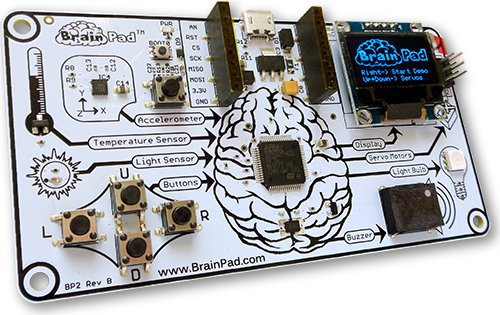
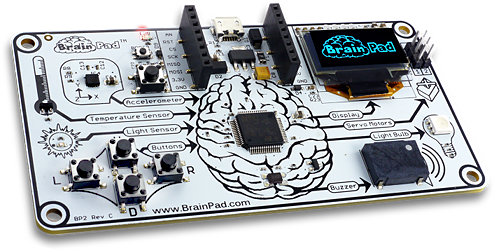
Changed main BrainPad picture, added some things Gus wanted, made other small changes.

diff --git a/go-beyond/components/display.md b/go-beyond/components/display.md
@@ -4,74 +4,74 @@ The BrainPad display is an output device. The BrainPad has commands allowing you
 
 Display commands in this section only change the memory buffer of the display and are not seen until you also call the BrainPad.Display.ShowOnScreen() method.  
  
-* BrainPad.Display.Height() - returns the BrainPad display's height in pixels (64). 
+* `BrainPad.Display.Height()` - returns the BrainPad display's height in pixels (64). 
 
-* BrainPad.Display.Width() - returns the BrainPad display's width in pixels (128).
+* `BrainPad.Display.Width()` - returns the BrainPad display's width in pixels (128).
  
-* BrainPad.Display.DrawSmallNumber(int x, int y, long number) - Displays a number of type long in small text at the given x and y coordinates. [Example: BrainPad.Display.DrawSmallNumber(10, 20, 52)]
+* `BrainPad.Display.DrawSmallNumber(int x, int y, long number)` - Displays a number of type long in small text at the given x and y coordinates. [Example: `BrainPad.Display.DrawSmallNumber(10, 20, 52)`]
 
-* BrainPad.Display.DrawSmallNumber(int x, int y, double number) - Displays a number of type double in small text at the given x and y coordinates.
+* `BrainPad.Display.DrawSmallNumber(int x, int y, double number)` - Displays a number of type double in small text at the given x and y coordinates.
 
-* BrainPad.Display.DrawNumber(int x, int y, long number) - Displays a number of type long in large text at the given x and y coordinates.
+* `BrainPad.Display.DrawNumber(int x, int y, long number)` - Displays a number of type long in large text at the given x and y coordinates.
 
-* BrainPad.Display.DrawNumber(int x, int y, double number) - Displays a number of type double in large text at the given x and y coordinates. 
+* `BrainPad.Display.DrawNumber(int x, int y, double number)` - Displays a number of type double in large text at the given x and y coordinates. 
 
-* BrainPad.Display.DrawSmallText(int x, int y, string text) - Displays a string in small text at the given x and y coordinates. [Example: BrainPad.Display.DrawSmallText(20, 20, "Hello")]  
+* `BrainPad.Display.DrawSmallText(int x, int y, string text)` - Displays a string in small text at the given x and y coordinates. [Example: `BrainPad.Display.DrawSmallText(20, 20, "Hello")`]  
 
-* BrainPad.Display.DrawText(int x, int y, string text) - Displays a string in small text at the given x and y coordinates.
+* `BrainPad.Display.DrawText(int x, int y, string text)` - Displays a string in small text at the given x and y coordinates.
 
-* BrainPad.Display.DrawScaledText(int x, int y, string text, int HScale, int VScale) - Displays text that can be made larger. Text size is multiplied by HScale to determing horizontal size and VScale to determine vertical size. For example setting HScale to two will print text that is twice as wide.
+* `BrainPad.Display.DrawScaledText(int x, int y, string text, int HScale, int VScale)` - Displays text that can be made larger. Text size is multiplied by HScale to determing horizontal size and VScale to determine vertical size. For example setting HScale to two will print text that is twice as wide.
  
-* BrainPad.Display.CreatePicture(int width, int height, byte[] data) - Used to store a picture for the DrawPicture commands.
+* `BrainPad.Display.CreatePicture(int width, int height, byte[] data)` - Used to store a picture for the DrawPicture commands.
 
-* BrainPad.Display.CreateScaledPicture(int width, int height, byte[] data, int scale) - Used to store a picture that will be displayed larger by a factor of scale. For example setting scale to two will display the picture at twice its original size.
+* `BrainPad.Display.CreateScaledPicture(int width, int height, byte[] data, int scale)` - Used to store a picture that will be displayed larger by a factor of scale. For example setting scale to two will display the picture at twice its original size.
  
-* BrainPad.Display.DrawCircle(int x, int y, int r) - Draws a circle of radius r with the center located at the given x and y coordinates.  
+* `BrainPad.Display.DrawCircle(int x, int y, int r)` - Draws a circle of radius r with the center located at the given x and y coordinates.  
 
-* BrainPad.Display.DrawRectangle(int x, int y, int width, int height) - Draws a box at the given x and y coordinates.
+* `BrainPad.Display.DrawRectangle(int x, int y, int width, int height)` - Draws a box at the given x and y coordinates.
 
-* BrainPad.Display.DrawFilledRectangle(int x, int y, int width, int height) - Draws a filled box at the given x and y coordinates.   
+* `BrainPad.Display.DrawFilledRectangle(int x, int y, int width, int height)` - Draws a filled box at the given x and y coordinates.   
 
-* BrainPad.Display.DrawLine(int x0, int y0, int x1, int y1) - Draws a line from (x0, y0) to (x1, y1).  
+* `BrainPad.Display.DrawLine(int x0, int y0, int x1, int y1)` - Draws a line from (x0, y0) to (x1, y1).  
 
-* BrainPad.Display.DrawPoint(int x, int y) - Turns on a single pixel at the given x and y coordinates.
+* `BrainPad.Display.DrawPoint(int x, int y)` - Turns on a single pixel at the given x and y coordinates.
  
-* BrainPad.Display.DrawPicture(int x, int y, Picture picture) - Draws the given picture at the given x and y coordinates.
+* `BrainPad.Display.DrawPicture(int x, int y, Picture picture)` - Draws the given picture at the given x and y coordinates.
 
-* BrainPad.Display.DrawPictureFlippedHorizontally(int x, int y, Picture picture) - Flips the given picture horizontally and draws it at the given x and y coordinates.
+* `BrainPad.Display.DrawPictureFlippedHorizontally(int x, int y, Picture picture)` - Flips the given picture horizontally and draws it at the given x and y coordinates.
 
-* BrainPad.Display.DrawPictureFlippedVertically(int x, int y, Picture picture) - Flips the given picture vertically and draws it at the given x and y coordinates. 
+* `BrainPad.Display.DrawPictureFlippedVertically(int x, int y, Picture picture)` - Flips the given picture vertically and draws it at the given x and y coordinates. 
 
-* BrainPad.Display.DrawPictureRotated180Degrees(int x, int y, Picture picture) - Rotates the given picture 180 degrees and draws it at the given x and y coordinates. 
+* `BrainPad.Display.DrawPictureRotated180Degrees(int x, int y, Picture picture)` - Rotates the given picture 180 degrees and draws it at the given x and y coordinates. 
 
-* BrainPad.Display.DrawPictureRotated270Degrees(int x, int y, Picture picture) - Rotates the given picture 270 degrees clockwise and draws it at the given x and y coordinates.
+* `BrainPad.Display.DrawPictureRotated270Degrees(int x, int y, Picture picture)` - Rotates the given picture 270 degrees clockwise and draws it at the given x and y coordinates.
 
-* BrainPad.Display.DrawPictureRotated90Degrees(int x, int y, Picture picture) - Rotates the given picture 90 degrees clockwise and draws it at the given x and y coordinates.
+* `BrainPad.Display.DrawPictureRotated90Degrees(int x, int y, Picture picture)` - Rotates the given picture 90 degrees clockwise and draws it at the given x and y coordinates.
                          
-* BrainPad.Display.ClearPartOfScreen(int x, int y, int width, int height) - Clears a rectangular section of the display where x and y are the top left corner of the rectangle of given width and height.
+* `BrainPad.Display.ClearPartOfScreen(int x, int y, int width, int height)` - Clears a rectangular section of the display where x and y are the top left corner of a rectangle of given width and height.
  
-* BrainPad.Display.ClearPoint(int x, int y) - Clears the pixel located at the given x and y coordinates.  
+* `BrainPad.Display.ClearPoint(int x, int y)` - Clears the pixel located at the given x and y coordinates.  
 
-* BrainPad.Display.ClearScreen() - Clears the entire screen buffer. 
+* `BrainPad.Display.ClearScreen()` - Clears the entire screen buffer. 
 
-* BrainPad.Display.InvertColors(bool invert) - Inverts the colors of the entire screen.
+* `BrainPad.Display.InvertColors(bool invert)` - Inverts each pixel on the entire screen. Pixels that are on will be turned off, and pixels that are off will be turned on.
 
-* BrainPad.Display.ShowOnScreen() - Writes the entire display buffer to the display. Used to show what has been drawn to the screen buffer on the display.
+* `BrainPad.Display.ShowOnScreen()` - Writes the entire display buffer to the display. Used to show what has been drawn to the screen buffer on the display.
  
-The above commands only affect the BrainPad's display memory (or buffer) and will not be shown on the display until BrainPad.Display.ShowOnScreen() is executed.
+The above commands only affect the BrainPad's display memory (or buffer) and will not be shown on the display until `BrainPad.Display.ShowOnScreen()` is executed.
 
-The methods below have the ShowOnScreen() method built in and don't require the use of BrainPad.Display.ShowOnScreen(). These methods also clear the entire screen before displaying new text. The following commands run three methods consecutively: BrainPad.Display.ClearScreen(), BrainPad.Display.Draw..., and finally BrainPad.Display.ShowOnScreen().  
+The methods below have the `ShowOnScreen()` method built in and don't require the use of `BrainPad.Display.ShowOnScreen()`. These methods also clear the entire screen before displaying new text. The following commands run three methods consecutively: `BrainPad.Display.ClearScreen()`, `BrainPad.Display.Draw...`, and finally `BrainPad.Display.ShowOnScreen()`.  
  
-* BrainPad.Display.DrawNumberAndShowOnScreen(int x, int y, long number) - Clears the screen, draws a number of type long at the given x and y coordinates, and displays the number on the BrainPad display.
+* `BrainPad.Display.DrawNumberAndShowOnScreen(int x, int y, long number)` - Clears the screen, draws a number of type long at the given x and y coordinates, and displays the number on the BrainPad display.
 
-* BrainPad.Display.DrawNumberAndShowOnScreen(int x, int y, double number) - Clears the screen, draws a number of type double at the given x and y coordinates, and displays the number on the BrainPad display.
+* `BrainPad.Display.DrawNumberAndShowOnScreen(int x, int y, double number)` - Clears the screen, draws a number of type double at the given x and y coordinates, and displays the number on the BrainPad display.
 
-* BrainPad.Display.DrawSmallNumberAndShowOnScreen(int x, int y, long number) - Clears the screen, draws a number of type long at the given x and y coordinates in small text, and displays the number on the BrainPad display.
+* `BrainPad.Display.DrawSmallNumberAndShowOnScreen(int x, int y, long number)` - Clears the screen, draws a number of type long at the given x and y coordinates in small text, and displays the number on the BrainPad display.
 
-* BrainPad.Display.DrawSmallNumberAndShowOnScreen(int x, int y, double number) - Clears the screen, draws a number of type double at the given x and y coordinates in small text, and displays the number on the BrainPad display.
+* `BrainPad.Display.DrawSmallNumberAndShowOnScreen(int x, int y, double number)` - Clears the screen, draws a number of type double at the given x and y coordinates in small text, and displays the number on the BrainPad display.
 
-* BrainPad.Display.DrawTextAndShowOnScreen(int x, int y, string text) - Clears the screen, draws a string at the given x and y coordinates, and displays the string on the BrainPad display.    
+* `BrainPad.Display.DrawTextAndShowOnScreen(int x, int y, string text)` - Clears the screen, draws a string at the given x and y coordinates, and displays the string on the BrainPad display.    
 
-* BrainPad.Display.DrawSmallTextAndShowOnScreen(int x, int y, string text) - Clears the screen, draws a string at the given x and y coordinates in small text, and displays the string on the BrainPad display.    
+* `BrainPad.Display.DrawSmallTextAndShowOnScreen(int x, int y, string text)` - Clears the screen, draws a string at the given x and y coordinates in small text, and displays the string on the BrainPad display.    
 
-* BrainPad.Display.DrawScaledTextAndShowOnScreen(int x, int y, string text, int HScale, int VScale) - Clears the screen, draws a string at the given x and y coordinates in scaled text, and displays the string on the BrainPad display.    
+* `BrainPad.Display.DrawScaledTextAndShowOnScreen(int x, int y, string text, int HScale, int VScale)` - Clears the screen, draws a string at the given x and y coordinates in scaled text, and displays the string on the BrainPad display.    

diff --git a/go-beyond/components/buttons.md b/go-beyond/components/buttons.md
@@ -4,28 +4,28 @@ The four directional buttons (up, down, left and right) are used as inputs and c
 
 An event handler will continuously check to see if a button has been pressed or released. A button is released when the person pushing the button stops pushing (or releases) the button. Once an event handler is set up, the BrainPad will start an event listener that will check the button for you. This allows your program to do other tasks without you worrying about missing a button event. Once the button is pushed (or released) the event listener will call your event handler. The event handler is code you write to tell the BrainPad how to react when a button is pushed (or released).
 
-While an event handler is a little harder to set up, it has the advantage allowing the program to take care of other tasks while never missing a button event.
+While an event handler is a little harder to set up, it allows the program to take care of other tasks while never missing a button event.
  
-* BrainPad.Buttons.IsUpPressed() - returns a boolean true if the up button is pressed and a boolean false otherwise.
+* `BrainPad.Buttons.IsUpPressed()` - returns a boolean true if the up button is pressed and a boolean false otherwise.
 
-* BrainPad.Buttons.IsLeftPressed() - returns a boolean true if the left button is pressed and a boolean false otherwise.
+* `BrainPad.Buttons.IsLeftPressed()` - returns a boolean true if the left button is pressed and a boolean false otherwise.
 
-* BrainPad.Buttons.IsRightPressed() - returns a boolean true if the right button is pressed and a boolean false otherwise.
+* `BrainPad.Buttons.IsRightPressed()` - returns a boolean true if the right button is pressed and a boolean false otherwise.
 
-* BrainPad.Buttons.IsDownPressed() - returns a boolean true if the down button is pressed and a boolean false otherwise.
+* `BrainPad.Buttons.IsDownPressed()` - returns a boolean true if the down button is pressed and a boolean false otherwise.
 
-* ButtonEventHandler WhenUpButtonPressed
+* `ButtonEventHandler` `WhenUpButtonPressed`
 
-* ButtonEventHandler WhenUpButtonReleased
+* `ButtonEventHandler` `WhenUpButtonReleased`
 
-* ButtonEventHandler WhenLeftButtonPressed
+* `ButtonEventHandler` `WhenLeftButtonPressed`
 
-* ButtonEventHandler WhenLeftButtonReleased
+* `ButtonEventHandler` `WhenLeftButtonReleased`
 
-* ButtonEventHandler WhenRightButtonPressed
+* `ButtonEventHandler` `WhenRightButtonPressed`
 
-* ButtonEventHandler WhenRightButtonReleased
+* `ButtonEventHandler` `WhenRightButtonReleased`
  
-* ButtonEventHandler WhenDownButtonPressed
+* `ButtonEventHandler` `WhenDownButtonPressed`
 
-* ButtonEventHandler WhenDownButtonReleased
+* `ButtonEventHandler` `WhenDownButtonReleased`

diff --git a/go-beyond/components/light-bulb.md b/go-beyond/components/light-bulb.md
@@ -1,15 +1,15 @@
 # Light Bulb
 ---
-The BrainPad Light Bulb actually contains three light emitting diodes (LEDs) in one package. One LED is red, one is green, and one is blue. These can independently set to varying intensities to create up to one million different colors.
+The BrainPad Light Bulb actually contains three light emitting diodes (LEDs) in one package. One LED is red, one is green, and one is blue. These can independently set to varying intensities to create up to a million different colors.
 
-* BrainPad.LightBulb.TurnColor(double r, double g, double b) - Used to create a variety of colors by controlling the brightness of the red, green and blue LEDs. The minimum color intensity is 0 (off) and the maximum is 100. 
+* `BrainPad.LightBulb.TurnColor(double r, double g, double b)` - Used to create a variety of colors by controlling the brightness of the red, green and blue LEDs. The minimum color intensity is 0 (off) and the maximum is 100. 
 
-* BrainPad.LightBulb.TurnRed() - Turns the light bulb red at full intensity.
+* `BrainPad.LightBulb.TurnRed()` - Turns the light bulb red at full intensity.
 
-* BrainPad.LightBulb.TurnBlue() - Turns the light bulb blue at full intensity.
+* `BrainPad.LightBulb.TurnBlue()` - Turns the light bulb blue at full intensity.
 
-* BrainPad.LightBulb.TurnGreen() - Turns the light bulb green at full intensity.
+* `BrainPad.LightBulb.TurnGreen()` - Turns the light bulb green at full intensity.
 
-* BrainPad.LightBulb.TurnWhite() - Turns the light bulb white at full intensity.
+* `BrainPad.LightBulb.TurnWhite()` - Turns the light bulb white at full intensity.
 
-* BrainPad.LightBulb.TurnOff() - Turns off the light bulb. Same as BrainPad.LightBulb.TurnColor(0.0, 0.0, 0.0)
+* `BrainPad.LightBulb.TurnOff()` - Turns off the light bulb. Same as BrainPad.LightBulb.TurnColor(0.0, 0.0, 0.0)

diff --git a/go-beyond/system-setup.md b/go-beyond/system-setup.md
@@ -37,7 +37,7 @@ In the `VSIX Installer` dialog box click the `Install` button.
 
 ### Download and Install the TinyCLR Nuget Packages
 
-1. Since TinyCLR OS is still so new, we haven't yet uploaded any packages to NuGet.  Download the newest [libraries](downloads.md#libraries), extract the archive, and place them in a [local NuGet feed](https://docs.nuget.org/ndocs/hosting-packages/local-feeds).
+1. Since TinyCLR OS is still so new, we haven't yet uploaded any packages to NuGet.  Download the newest [libraries](../resources/downloads.md#libraries), extract the archive, and place them in a [local NuGet feed](https://docs.nuget.org/ndocs/hosting-packages/local-feeds).
 2. Connect your device to your PC using a USB cable (make sure your device has the latest firmware installed).
 3. Start Visual Studio and create a new `TinyCLR Application` under `C# > TinyCLR`. New to Visual Studio or C#? Take a look at the [getting started guide from Microsoft](https://docs.microsoft.com/en-us/dotnet/csharp/getting-started/with-visual-studio).
 4. Right click on your Project in the Solution Explorer and select `Manage NuGet Packages`.  If the Solution Explorer window is not visible, open it by selecting `Solution Explorer` in the `View` menu.
@@ -70,7 +70,7 @@ And, that's it! You're now ready to start programming using TinyCLR OS.
 ---
 
 > [!Tip]
-> If you have the original BrainPad Concept/Prototype the setup is slightly different. See the [**Older BrainPad**](..\resources\older-brainpad.md) page for more details.
+> If you have the original BrainPad Concept/Prototype the setup is slightly different. See the [**Older BrainPad**](../resources/older-brainpad.md) page for more details.
 
 To prepare the BrainPad you only need to install the latest firmware as described below.
 

diff --git a/go-beyond/components/accelerometer.md b/go-beyond/components/accelerometer.md
@@ -4,8 +4,8 @@ The accelerometer is an input device that measures the force of acceleration in 
 
 If the BrainPad is laying flat on a table with the display away from you on the right side, the x-axis runs horizontally left and right, the y-axis goes horizontally toward you and away from you, and the z-axis extends vertically straight up and down. If the BrainPad is stationary in this position the x and y axes would read 0 g, but the z-axis would read -1 g. This is because the force of gravity is pushing down on the accelerometer with force equal to 1 g (the force of the Earth's gravity). If you turn the BrainPad upside down, the z-axis would read 1 g. The only time all axes read zero is when the BrainPad is free falling.  
 
-* BrainPad.Accelerometer.ReadX() - returns a double precision value in the range of -2 to 2 based on the BrainPad's x-axis acceleration.
+* `BrainPad.Accelerometer.ReadX()` - returns a double precision value in the range of -2 to 2 based on the BrainPad's x-axis acceleration.
  
-* BrainPad.Accelerometer.ReadY() - returns a double precision value in the range of -2 to 2 based on the BrainPad's y-axis acceleration.
+* `BrainPad.Accelerometer.ReadY()` - returns a double precision value in the range of -2 to 2 based on the BrainPad's y-axis acceleration.
 
-* BrainPad.Accelerometer.ReadZ() - returns a double precision value in the range of -2 to 2 based on the BrainPad's z-axis acceleration.
+* `BrainPad.Accelerometer.ReadZ()` - returns a double precision value in the range of -2 to 2 based on the BrainPad's z-axis acceleration.

diff --git a/go-beyond/components/servo-motors.md b/go-beyond/components/servo-motors.md
@@ -4,16 +4,12 @@ The BrainPad has built in support for two servo motors. These can be either cont
 
 Positional servo motors only accept position commands. Positional servo motors only rotate part way through a revolution, usually turning up to half of a revolution (180 degrees). While you can tell a servo motor to go to a specific position, you have no control over how fast it will get there. The positional servo motor will move to a given position as quickly as possible, but it's speed depends on how much load is put on the motor.
 
-* BrainPad.ServoMotors.ServoOne { get; } 
+* `BrainPad.ServoMotors.ConfigureAsContinuous(bool inverted)` 
 
-* BrainPad.ServoMotors.ServoTwo { get; } 
+* `BrainPad.ServoMotors.ConfigureAsPositional(bool inverted)`
 
-* BrainPad.ServoMotors.ConfigureAsContinuous(bool inverted); 
+* `BrainPad.ServoMotors.ConfigurePulseParameters(double minimumPulseWidth, double maximumPulseWidth)` 
 
-* BrainPad.ServoMotors.ConfigureAsPositional(bool inverted); 
+* `BrainPad.ServoMotors.Set(double value)`
 
-* BrainPad.ServoMotors.ConfigurePulseParameters(double minimumPulseWidth, double maximumPulseWidth); 
-
-* BrainPad.ServoMotors.Set(double value); 
-
-* BrainPad.ServoMotors.Stop();
+* `BrainPad.ServoMotors.Stop()`

diff --git a/go-beyond/components/buzzer.md b/go-beyond/components/buzzer.md
@@ -4,7 +4,7 @@ The BrainPad buzzer is an output device. It is really not a buzzer but a crude s
 
 You can also tell the BrainPad to play a tone where you decide the frequency. The BrainPad will keep playing that sound until you tell it to stop or tell it to play a different tone. This allows you to play sound effects for games as well as simple melodies.
  
-* BrainPad.Buzzer.Beep() - Plays a short duration beep on the BrainPad's buzzer.  
+* `BrainPad.Buzzer.Beep()` - Plays a short duration beep on the BrainPad's buzzer.  
  
-* BrainPad.Buzzer.StartBuzzing(double frequency) - Plays a sound of given frequency. Will keep playing until told to stop. [Example: BrainPad.Buzzer.StartBuzzing(251.00)] 
-* BrainPad.Buzzer.StopBuzzing() - Stops the buzzer if it is currently playing.
+* `BrainPad.Buzzer.StartBuzzing(double frequency)` - Plays a sound of given frequency. Will keep playing until told to stop. [Example: `BrainPad.Buzzer.StartBuzzing(251.00)`] 
+* `BrainPad.Buzzer.StopBuzzing()` - Stops the buzzer if it is currently playing.

diff --git a/index.md b/index.md
@@ -13,13 +13,13 @@
 |  | [Start Making](start-making/intro.md) | [Go Beyond](go-beyond/intro.md) |
 |--|--|--|
 |  | [![Block Code](images/makecode-blocks.png)](start-making/intro.md) | [![C# code](images/c-sharp-code.png)](go-beyond/intro.md) |
-| **Core** | Based on Microsoft MakeCode | Based on .NET and Visual Studio |
+| **Platform** | Based on Microsoft MakeCode | Based on .NET and Visual Studio |
 | **Language** | Drag and drop blocks and Javascript | C# and Visual Basic |
 | **Setup** | Online tools with nothing to install | Requires system setup |
 | **Setup Time** | Instant | About an hour |
-| **Difficulty** | Simple to start with and learn | Professional tools |
+| **Skill Level** | Beginner.  Easy to start with and learn | Beginner through professional |
 | **Requirements** | Any operating system with any modern web browser | Windows (version 7 or newer) computers only |
-| **Debugging** | None | Full featured |
+| **Troubleshooting** | Limited | Full featured debugging tools |
 | **Ages** | 6+ | 12+ |
 
 ---

diff --git a/go-beyond/components/intro.md b/go-beyond/components/intro.md
@@ -20,4 +20,4 @@ All of the output devices are on the right side of the BrainPad:
 * [Light Bulb](light-bulb.md)
 * [Servo Motors](servo-motors.md)
 
-So the flow of information on the BrainPad goes from left to right. Inputs come in from the sensors on the left side of the BrainPad, are processed by the "brain," and then sent to the output devices on the right side of the board. Note that most devices are not set up this way -- we did this to make it a little easier to learn and understand how the BrainPad works.
+So the flow of information on the BrainPad goes from left to right. Inputs come in from the sensors on the left side of the BrainPad, are processed by the "brain," and then sent to the output devices on the right side of the board. Note that most devices are not set up this way -- we did this to make the BrainPad more intuitive.

diff --git a/go-beyond/components/temperature-sensor.md b/go-beyond/components/temperature-sensor.md
@@ -2,6 +2,6 @@
 ---
 The BrainPad temperature sensor is basically a digital thermometer. There are seperate commands for reading the temperature in Celsius and Fahrenheit.
  
-* BrainPad.TemperatureSensor.ReadTemperatureInCelsius() - Returns the temperature in Celsius from the BrainPad's sensor. Returns the temperature as type double.  
+* `BrainPad.TemperatureSensor.ReadTemperatureInCelsius()` - Returns the temperature in Celsius from the BrainPad's sensor. Returns the temperature as type double.  
 
-* BrainPad.TemperatureSensor.ReadTemperatureInFahrenheit() - Returns the temperature in Fahrenheit from the BrainPad's sensor. Returns the temperature as type double.
+* `BrainPad.TemperatureSensor.ReadTemperatureInFahrenheit()` - Returns the temperature in Fahrenheit from the BrainPad's sensor. Returns the temperature as type double.

diff --git a/go-beyond/other-software/micropython.md b/go-beyond/other-software/micropython.md
@@ -9,6 +9,7 @@ This video shows the steps needed to use MicroPython on the BrainPad.
 
 <iframe width="560" height="315" src="https://www.youtube.com/embed/u6MoDpUNQDc" frameborder="0" allowfullscreen></iframe>
 
-* [MicroPyho Website](http://www.micropython.org/)
-* [GitHub Repo](https://github.com/micropython/micropython)
+* [MicroPython Website](http://www.micropython.org/)
+* The MicroPython project [GitHub repo](https://github.com/micropython/micropython)
+* This [GitHub repo](https://github.com/chalei/brainpad-micropython) has some nice Micropython examples.
 * [DFU Files](../../resources/dfu-files.md)

diff --git a/go-beyond/components/light-sensor.md b/go-beyond/components/light-sensor.md
@@ -2,4 +2,4 @@
 ---
 The BrainPad Light Sensor is used to measure the amount of light hitting the sensor.
 
-* BrainPad.LightSensor.ReadLightLevel() - Reads the amount of light hitting the light sensor and returns an integer corresponding to the brightness. The higher the returned value greater the intensity of the light.
+* `BrainPad.LightSensor.ReadLightLevel()` - Reads the amount of light hitting the light sensor and returns an integer corresponding to the brightness. The higher the returned value greater the intensity of the light.
